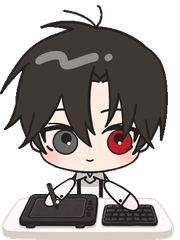
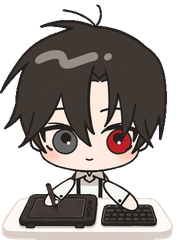
update v1786696062

diff --git a/mascot.py b/mascot.py
@@ -3537,6 +3537,9 @@ class Mascot:
         self._room_art_th = None
         self._photo_after = None     # 단체사진 안내 예약
         self._room_ask_win = None    # 홈에 처음 들어갈 때 묻는 창
+        self._room_pick = None       # 방에서 고른 사람 (없으면 방 전체)
+        self._room_btn_hit = []      # 아래 단추 자리
+        self._room_sent = None
         self._sl_fg = 0.0            # 앞 창을 마지막으로 확인한 시각
         # 물성은 종류마다 다르다. 꺼낼 때 정하지만 여기서도 만들어 둔다
         # (조건문 뒤쪽에서 처음 만들면 몇 분 뒤에 터진다 — 지뢰 13).
@@ -12239,7 +12242,7 @@ class Mascot:
         "parts_dororong_gift": ("dororong-mascot", "parts_dororong_gift"),
         "parts_dororong": ("dororong-mascot", "parts_dororong_gift"),
     }
-    ROOM_COLS, ROOM_CW, ROOM_CH, ROOM_TOP = 3, 230, 236, 62
+    ROOM_COLS, ROOM_CW, ROOM_CH, ROOM_TOP = 3, 230, 248, 62
     ROOM_FIG = 112               # 방에서 캐릭터를 그리는 높이(px)
 
     def _room_on(self):
@@ -12259,10 +12262,16 @@ class Mascot:
             st = "work"
         else:
             st = "away"
+        now = time.time()
+        act = ""
+        if st == "work":
+            # 최근에 무엇을 만졌는지 — 방에서 그 자세로 보여 준다
+            act = "key" if (now - self.last_pointer > 2.0
+                            and now - self.last_key < 1.8) else "pen"
         return {"n": self._room_nick()[:14], "lv": self._level(),
                 "ti": self._title()[:14], "t": int(today // 60), "s": st,
                 "p": round(min(1.0, today / goal), 3),
-                "sl": bool(self.slime)}
+                "a": act, "sl": bool(self.slime)}
 
     def _room_start(self):
         if self.room_net is not None or not self._room_on():
@@ -12320,6 +12329,10 @@ class Mascot:
             self._say("%s가 담요를 덮어 줬어요" % who if who else "담요를 덮어 줬어요",
                       3.5)
             self.smile_until = max(self.smile_until, now + 3.0)
+        elif kind == "cheer":
+            self.smile_until = max(self.smile_until, now + 3.0)
+            self._say("%s가 응원했어요" % who if who else "누가 응원했어요", 3.5)
+            self._safe("room_cheer", self._burst, 10, 26)
         elif kind == "snack":
             self._say("%s가 간식을 놓고 갔어요" % who if who else "간식이 놓여 있어요",
                       3.5)
@@ -12344,7 +12357,8 @@ class Mascot:
             slot = p.get("slot") or ""
             if slot not in self.ROOM_ART or slot in self._room_art_bad:
                 continue
-            for tag in ("seat", "seat_idle"):
+            for tag in ("seat", "seat_idle", "seat_type", "seat_pen",
+                        "seat_pen2"):
                 if os.path.isfile(os.path.join(HERE, slot, tag + ".png")):
                     continue                      # 원본이 여기 있다
                 if not os.path.isfile(os.path.join(self._room_art_dir(),
@@ -12384,6 +12398,8 @@ class Mascot:
         if got is not None:
             return got
         p = os.path.join(self._room_art_dir(), "%s_%s.png" % (slot, tag))
+        if not os.path.isfile(p) and tag not in ("seat", "seat_idle"):
+            return self._room_img(slot, "seat")     # 옛 배포본 — 기본 자세로
         if not os.path.isfile(p):
             # 그 캐릭터 폴더가 내 컴퓨터에 있으면 받아 올 것도 없다
             # (원본을 쓰는 쪽. 친구들은 배포 레포에서 받는다)
@@ -12411,17 +12427,17 @@ class Mascot:
     def _room_palette(self):
         """시간에 따라 방 분위기가 바뀐다 (작업일 기준이 아니라 시계 기준)."""
         h = time.localtime().tm_hour
-        if 6 <= h < 17:
-            return {"wall": "#f7eee4", "dot": "#f1e6d9", "card": "#fffdfa",
-                    "line": "#f0e5d8", "ink": "#68564c", "sub": "#a29186",
-                    "bar": "#fffbf5", "lamp": "#ffe2a8"}
-        if 17 <= h < 20:
-            return {"wall": "#f6e6da", "dot": "#efdccc", "card": "#fffaf3",
-                    "line": "#eeddcc", "ink": "#6b4f42", "sub": "#a89083",
-                    "bar": "#fff7ee", "lamp": "#ffcf8a"}
-        return {"wall": "#e7e3ef", "dot": "#ded9ea", "card": "#faf8ff",
-                "line": "#ddd6ea", "ink": "#4e485e", "sub": "#8d879c",
-                "bar": "#f4f1fa", "lamp": "#cfd6ff"}
+        if 6 <= h < 17:                      # 낮 — 아주 연한 핑크
+            return {"wall": "#fdf2f6", "dot": "#f8e6ee", "card": "#fffcfd",
+                    "line": "#f6e2ea", "ink": "#6f5460", "sub": "#a8919c",
+                    "bar": "#fffafc", "lamp": "#ffd9e6"}
+        if 17 <= h < 20:                     # 저녁 — 조금 더 따뜻하게
+            return {"wall": "#fbeceF".replace("F", "f"), "dot": "#f6dfe6",
+                    "card": "#fffafb", "line": "#f4dde5", "ink": "#6d4e58",
+                    "sub": "#a68b95", "bar": "#fff8fa", "lamp": "#ffcbd9"}
+        return {"wall": "#f2e9f2", "dot": "#e8dced", "card": "#fdfaff",
+                "line": "#e6d9e8", "ink": "#584a5c", "sub": "#96879a",
+                "bar": "#fbf6fc", "lamp": "#e2cfe8"}
 
     def _room_reset(self):
         """방 코드나 켬/끔이 바뀌었을 때 — 끊고 다시 붙는다."""
@@ -12573,7 +12589,7 @@ class Mascot:
         self._room_job = None
         if self.room_win is None:
             return
-        self._room_job = self.root.after(500, self._room_loop)   # 먼저 예약
+        self._room_job = self.root.after(120, self._room_loop)   # 먼저 예약
         self._safe("room_draw", self._room_draw)
 
     def _rr(self, cv, x0, y0, x1, y1, r, **kw):
@@ -12634,9 +12650,7 @@ class Mascot:
             cx0 = int(16 * k) + (i % self.ROOM_COLS) * cw
             cy0 = top + (i // self.ROOM_COLS) * chh
             self._room_one(cv, p, cx0, cy0, cw, chh, P, k)
-        cv.create_text(W // 2, H - 16 * k, anchor="center",
-                       text="캐릭터를 누르면 콕 찔러요 · 자는 사람에겐 담요를 덮어 줘요",
-                       font=self._uf(9), fill=P["sub"])
+        self._room_bar(cv, W, H, P, k, people)
 
     def _room_one(self, cv, p, cx0, cy0, cw, ch, P, k):
         slot = p.get("slot") or ""
@@ -12644,16 +12658,21 @@ class Mascot:
         col = self._room_tone(slot)
         kx0, ky0 = cx0 + 8 * k, cy0 + 6 * k
         kx1, ky1 = cx0 + cw - 8 * k, cy0 + ch - 16 * k
+        picked = (self._room_pick == slot)
         self._rr(cv, kx0, ky0, kx1, ky1, 18 * k, fill=P["card"],
-                 outline=P["line"], width=2)
-        floor = ky1 - 62 * k
+                 outline=col if picked else P["line"], width=3 if picked else 2)
+        floor = ky1 - 74 * k
         self._rr(cv, kx0 + 2, floor, kx1 - 2, ky1 - 2, 16 * k,
                  fill=self._tint(col, 0.72), width=0)
         cv.create_rectangle(kx0 + 2, floor, kx1 - 2, floor + 14 * k,
                             fill=self._tint(col, 0.72), width=0)
-        img = self._room_img(slot, "seat_idle" if sleeping else "seat")
+        img = self._room_img(slot, self._room_pose(p))
         if img is not None:
-            cv.create_image((kx0 + kx1) / 2, floor + 4 * k, image=img,
+            # 아주 살짝 위아래로 — 정지 그림이라도 멈춰 있어 보이지 않는다
+            bob = math.sin(time.time() * 1.7 + hash(slot) % 7) * (1.6 * k)
+            if sleeping:
+                bob *= 0.5
+            cv.create_image((kx0 + kx1) / 2, floor + 4 * k + bob, image=img,
                             anchor="s")
         else:
             cv.create_oval((kx0 + kx1) / 2 - 26 * k, floor - 56 * k,
@@ -12687,6 +12706,62 @@ class Mascot:
                        text="%d%%" % (pr * 100), font=self._uf(8), fill=P["sub"])
         # 자는 표시는 seat_idle 그림에 이미 들어 있다 (여기서 또 그리면 겹친다)
         self._room_hit.append((kx0, ky0, kx1, ky1, slot, sleeping))
+
+    ROOM_BTN = (("콕", "poke", "#ffd6e0"), ("응원", "cheer", "#ffe8ba"),
+                ("담요", "blanket", "#d6e8ff"), ("간식", "snack", "#def0d6"))
+
+    def _room_bar(self, cv, W, H, P, k, people):
+        """아래 단추 줄 — 고른 사람에게 보낸다. 아무도 안 골랐으면 방 전체."""
+        pick = self._room_pick
+        who = next((p for p in people if p.get("slot") == pick), None)
+        if pick == self.char:
+            who, pick = None, None
+        name = str(who.get("n") or "") if who else ""
+        cv.create_text(W // 2, H - 62 * k, anchor="center",
+                       text=("%s에게" % name) if name else "방에 있는 모두에게",
+                       font=self._uf(9), fill=P["sub"])
+        bw, gap = 46 * k, 14 * k
+        tot = len(self.ROOM_BTN) * bw + (len(self.ROOM_BTN) - 1) * gap
+        x = (W - tot) / 2
+        self._room_btn_hit = []
+        for label, kind, col in self.ROOM_BTN:
+            cv.create_oval(x + 2, H - 46 * k + 2, x + bw + 2, H - 46 * k + bw + 2,
+                           fill=P["line"], width=0)
+            cv.create_oval(x, H - 46 * k, x + bw, H - 46 * k + bw,
+                           fill=col, outline="#ffffff", width=2)
+            cv.create_text(x + bw / 2, H - 46 * k + bw / 2, text=label,
+                           font=self._uf(9, True), fill=P["ink"])
+            self._room_btn_hit.append((x, H - 46 * k, x + bw,
+                                       H - 46 * k + bw, kind))
+            x += bw + gap
+
+    def _room_send(self, kind):
+        """단추를 눌렀을 때 — 고른 사람에게, 아무도 안 골랐으면 방 전체에."""
+        if self.room_net is None:
+            return
+        to = self._room_pick
+        if not to or to == self.char:
+            to = "*"
+        self.room_net.send(to, kind)
+        self._room_flash[to if to != "*" else ""] = time.time()
+        self._room_sent = (kind, time.time())
+
+    def _room_pose(self, p):
+        """그 사람이 지금 뭘 하고 있는지에 맞는 그림을 고른다.
+
+        작업 중이면 두 자세를 번갈아 보여 준다 — 한 장만 쓰면 통째로 멈춰
+        보인다. 자세 그림이 없는 옛 배포본이면 _room_img 가 None 을 주므로
+        기본 자세로 물러난다.
+        """
+        if p.get("s") == "sleep":
+            return "seat_idle"
+        if p.get("s") != "work":
+            return "seat"
+        if p.get("a") == "key":
+            return "seat_type"
+        # 0.7초마다 손 위치가 바뀐다 (사람마다 박자를 어긋나게)
+        n = int(time.time() / 0.7 + (hash(p.get("slot") or "") % 3))
+        return "seat_pen" if n % 2 else "seat_pen2"
 
     def _room_tw(self, cv, text, font):
         """글자 폭 — 캔버스에 잠깐 그려 재고 지운다 (캐시는 안 쌓는다)."""
@@ -12785,15 +12860,21 @@ class Mascot:
         return tuple(int(str(c)[i:i + 2], 16) for i in (1, 3, 5))
 
     def _room_click(self, e):
+        for x0, y0, x1, y1, kind in self._room_btn_hit:
+            if x0 <= e.x <= x1 and y0 <= e.y <= y1:
+                self._safe("room_btn", self._room_send, kind)
+                return
         for x0, y0, x1, y1, slot, sleeping in self._room_hit:
             if x0 <= e.x <= x1 and y0 <= e.y <= y1:
-                if slot == self.char:
-                    self._say("저예요", 2.0)
-                    return
-                if self.room_net is not None:
+                # 누르면 고른다. 한 번 더 누르면 푼다(방 전체로 보낸다).
+                self._room_pick = None if self._room_pick == slot else slot
+                if slot != self.char and self.room_net is not None:
                     self.room_net.send(slot, "blanket" if sleeping else "poke")
-                self._room_flash[slot] = time.time()
+                    self._room_flash[slot] = time.time()
+                self._safe("room_draw", self._room_draw)
                 return
+        self._room_pick = None
+        self._safe("room_draw", self._room_draw)
 
     # ── 프리뷰 ───────────────────────────────────────────────────────────
     def _preview_shots(self):
